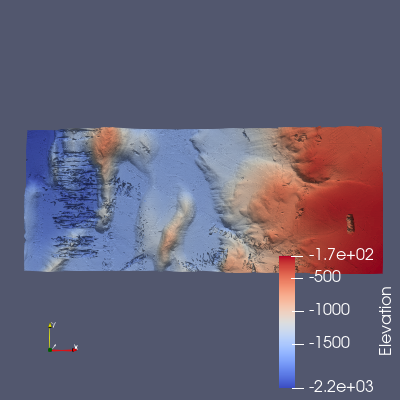
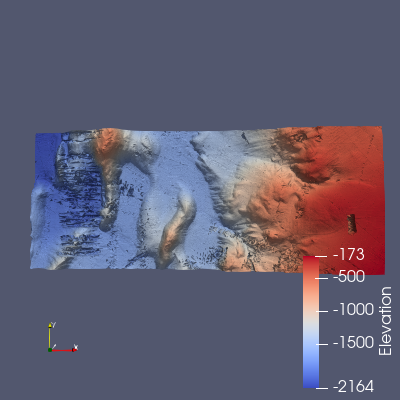
completed basic project

Changed region(s): [[0.06, 0.3, 0.96, 0.99], [0.93, 0.39, 0.96, 0.45], [0.93, 0.33, 0.96, 0.36]]

diff --git a/geotiff_to_vtk.py b/geotiff_to_vtk.py
@@ -30,7 +30,7 @@ ny, nx = elevation.shape
 # --- Build vtkImageData directly ---
 image_data = vtk.vtkImageData()
 image_data.SetDimensions(nx, ny, 1)
-image_data.SetSpacing(1, 1, 1)
+image_data.SetSpacing(90,90,1) # Comes from dataset cell size
 image_data.SetOrigin(0, 0, 0)
 
 values = elevation.ravel(order='C')  # Flattens row by row
@@ -46,18 +46,27 @@ producer.UpdatePipeline()
 # --- Warp into 3D relief ---
 warp = WarpByScalar(Input=producer)
 warp.Scalars = ['POINTS', 'Elevation']
-warp.ScaleFactor = 0.05
+warp.ScaleFactor = 10
 
 display = Show(warp)
 ColorBy(display, ('POINTS', 'Elevation'))
 display.SetScalarBarVisibility(GetActiveView(), True)
 display.RescaleTransferFunctionToDataRange(True)
 
+colorTF = GetColorTransferFunction('Elevation')
+colorBar = GetScalarBar(colorTF, GetActiveView())
+
+# Prettify the numeral formatting
+colorBar.AutomaticLabelFormat = 0
+colorBar.LabelFormat = '%.0f'
+colorBar.RangeLabelFormat = '%.0f'
+
 ResetCamera()
 Render()
 SaveScreenshot(r'.\images\bathymetry.png')
 Interact()
 
+# Save to vti
 from vtkmodules.vtkIOXML import vtkXMLImageDataWriter
 
 writer = vtkXMLImageDataWriter()

diff --git a/geotiff_pyvista.py b/geotiff_pyvista.py
@@ -18,13 +18,22 @@ elevation_filled = np.nan_to_num(elevation, nan=fill_value)
 ny, nx = elevation_filled.shape
 
 # --- Build a structured grid directly from the array ---
-grid = pv.ImageData(dimensions=(nx, ny, 1), spacing=(1, 1, 1), origin=(0, 0, 0))
+grid = pv.ImageData(dimensions=(nx, ny, 1), spacing=(90, 90, 1), origin=(0, 0, 0))
 grid.point_data['elevation'] = elevation_filled.ravel(order='C')
 
 # --- Warp into 3D relief ---
-warped = grid.warp_by_scalar('elevation', factor=0.05)
+warped = grid.warp_by_scalar('elevation', factor=10)
 
 # --- Plot ---
 plotter = pv.Plotter()
-plotter.add_mesh(warped, scalars='elevation', cmap='viridis', show_scalar_bar=True)
+plotter.add_mesh(
+    warped,
+    scalars='elevation',
+    cmap='viridis',
+    show_scalar_bar=True,
+    scalar_bar_args={
+        'fmt': '%.0f',       
+        'title': 'Elevation (m)',
+    }
+)
 plotter.show(screenshot='bathymetry.png')

diff --git a/README.md b/README.md
@@ -1,21 +1,24 @@
 # NOAA to ParaView Converter
 
-Convert NOAA bathymetric elevation exports (GeoTIFF) into 3D relief visualizations rendered with [ParaView](https://www.paraview.org/)'s Python API.
+Convert NOAA bathymetric elevation exports (GeoTIFF) into 3D relief visualizations.
 
-The script reads an elevation raster, masks out NODATA values, builds a `vtkImageData` grid from the elevation array, warps it into a 3D surface by elevation, and renders it colored by depth/height.
+Two independent converters are provided, both following the same pipeline: read an elevation raster, mask out NODATA values, build a structured grid from the elevation array, warp it into a 3D surface by elevation, and render it colored by depth/height.
+
+- **[geotiff_to_vtk.py](geotiff_to_vtk.py)** — uses ParaView's Python API (`paraview.simple`), driving an actual ParaView render/export.
+- **[geotiff_pyvista.py](geotiff_pyvista.py)** — uses [PyVista](https://pyvista.org/) instead, so it runs in a plain Python environment with no ParaView installation required.
 
 ![Bathymetry render](images/bathymetry.png)
 
 > [!NOTE]
-> Area of interest on the screenshot: 
+> Area of interest on the screenshot:
 >
 > West -125.33030416613947, South 45.568749228801046, East -124.61069967395203, North 45.860247378725035
 
 ## Requirements
 
-- Windows with [ParaView](https://www.paraview.org/download/) installed (developed against 5.13.2)
-- Python 3.10 (must match the Python version bundled with your ParaView install)
-- Python packages in [requirements.txt](requirements.txt): `numpy`, `tifffile`, `imagecodecs`
+- Python 3.10
+- Python packages in [requirements.txt](requirements.txt): `numpy`, `tifffile`, `imagecodecs`, `pyvista`, `rasterio`, `typing_extensions`
+- For [geotiff_to_vtk.py](geotiff_to_vtk.py) and the ParaView smoke test only: Windows with [ParaView](https://www.paraview.org/download/) installed (developed against 5.13.2), matching the venv's Python version
 
 ## Setup
 
@@ -37,10 +40,10 @@ The script reads an elevation raster, masks out NODATA values, builds a `vtkImag
    pip install -r requirements.txt
    ```
 
-4. Point the scripts at your local ParaView install. Each script starts with:
+4. If you're using [geotiff_to_vtk.py](geotiff_to_vtk.py) or the ParaView smoke test, point them at your local ParaView install. They start with:
 
    ```python
-   sys.path.append(r"C:\Program Files\ParaView 5.13.2\bin\Lib\site-packages")
+   sys.path.insert(0, r"C:\Program Files\ParaView 5.13.2\bin\Lib\site-packages")
    os.add_dll_directory(r"C:\Program Files\ParaView 5.13.2\bin")
    ```
 
@@ -48,30 +51,39 @@ The script reads an elevation raster, masks out NODATA values, builds a `vtkImag
 
 ## Usage
 
-- **`test1.py`** — minimal smoke test. Renders a cone in ParaView to confirm the venv can import `paraview.simple` and the DLL path is set up correctly.
+- **[geotiff_to_vtk.py](geotiff_to_vtk.py)** — reads `data/exportImage.tiff` with `tifffile`, cleans NODATA values, builds a `vtkImageData` grid, warps it into a 3D relief via ParaView's `WarpByScalar`, colors it by elevation, saves the render to `images/bathymetry.png`, and writes the grid to `output/bathymetry.vti`.
 
   ```powershell
-  python test1.py
+  python geotiff_to_vtk.py
   ```
 
-- **`test2.py`** — the converter. Reads `data/exportImage.tiff`, cleans NODATA values, builds a VTK image grid from the elevation data, warps it into a 3D relief, colors it by elevation, and saves the render to `images/bathymetry.png`.
+  Calls `Interact()` at the end, which opens an interactive ParaView render window — close it (or press `q`) to end the script.
+
+- **[geotiff_pyvista.py](geotiff_pyvista.py)** — reads `data/exportImage.tiff` with `rasterio`, cleans NODATA values, builds a PyVista `ImageData` grid, warps it into a 3D relief, and opens an interactive PyVista render window colored by elevation, saving a screenshot to `bathymetry.png`.
 
   ```powershell
-  python test2.py
+  python geotiff_pyvista.py
   ```
 
-  Both scripts call `Interact()` at the end, which opens an interactive ParaView render window — close it (or press `q`) to end the script.
+- **[tests/test_paraView.py](tests/test_paraView.py)** — minimal smoke test. Renders a cone in ParaView to confirm the venv can import `paraview.simple` and the DLL path is set up correctly, saving a screenshot to `images/screenshot.png`.
+
+  ```powershell
+  python tests/test_paraView.py
+  ```
 
 ## Data
 
-`data/exportImage.tiff` is expected to be a single-band elevation GeoTIFF exported from a NOAA bathymetry source (e.g. the [NOAA NCEI Bathymetric Data Viewer](https://www.ncei.noaa.gov/maps/bathymetry/)), with invalid/NODATA cells encoded as extreme sentinel values (`< -1e30` or `> 1e30`). Swap in your own export at that path, or edit the path in `test2.py`.
+`data/exportImage.tiff` is expected to be a single-band elevation GeoTIFF exported from a NOAA bathymetry source (e.g. the [NOAA NCEI Bathymetric Data Viewer](https://www.ncei.noaa.gov/maps/bathymetry/)), with invalid/NODATA cells encoded as extreme sentinel values (for [geotiff_to_vtk.py](geotiff_to_vtk.py)) or via the raster's `nodata` metadata (for [geotiff_pyvista.py](geotiff_pyvista.py)). Swap in your own export at that path, or edit the path in the scripts.
 
 ## Project structure
 
 ```
-data/exportImage.tiff   NOAA elevation GeoTIFF input
-images/bathymetry.png   Rendered output from test2.py
-test1.py                ParaView smoke test
-test2.py                TIFF -> VTK -> 3D relief converter
-requirements.txt        Python dependencies
+data/exportImage.tiff      NOAA elevation GeoTIFF input
+images/bathymetry.png      Rendered output from geotiff_to_vtk.py
+images/screenshot.png      Rendered output from tests/test_paraView.py
+output/bathymetry.vti      VTK image data export from geotiff_to_vtk.py
+geotiff_to_vtk.py          TIFF -> VTK -> 3D relief converter (ParaView)
+geotiff_pyvista.py         TIFF -> VTK -> 3D relief converter (PyVista)
+tests/test_paraView.py     ParaView smoke test
+requirements.txt           Python dependencies
 ```
